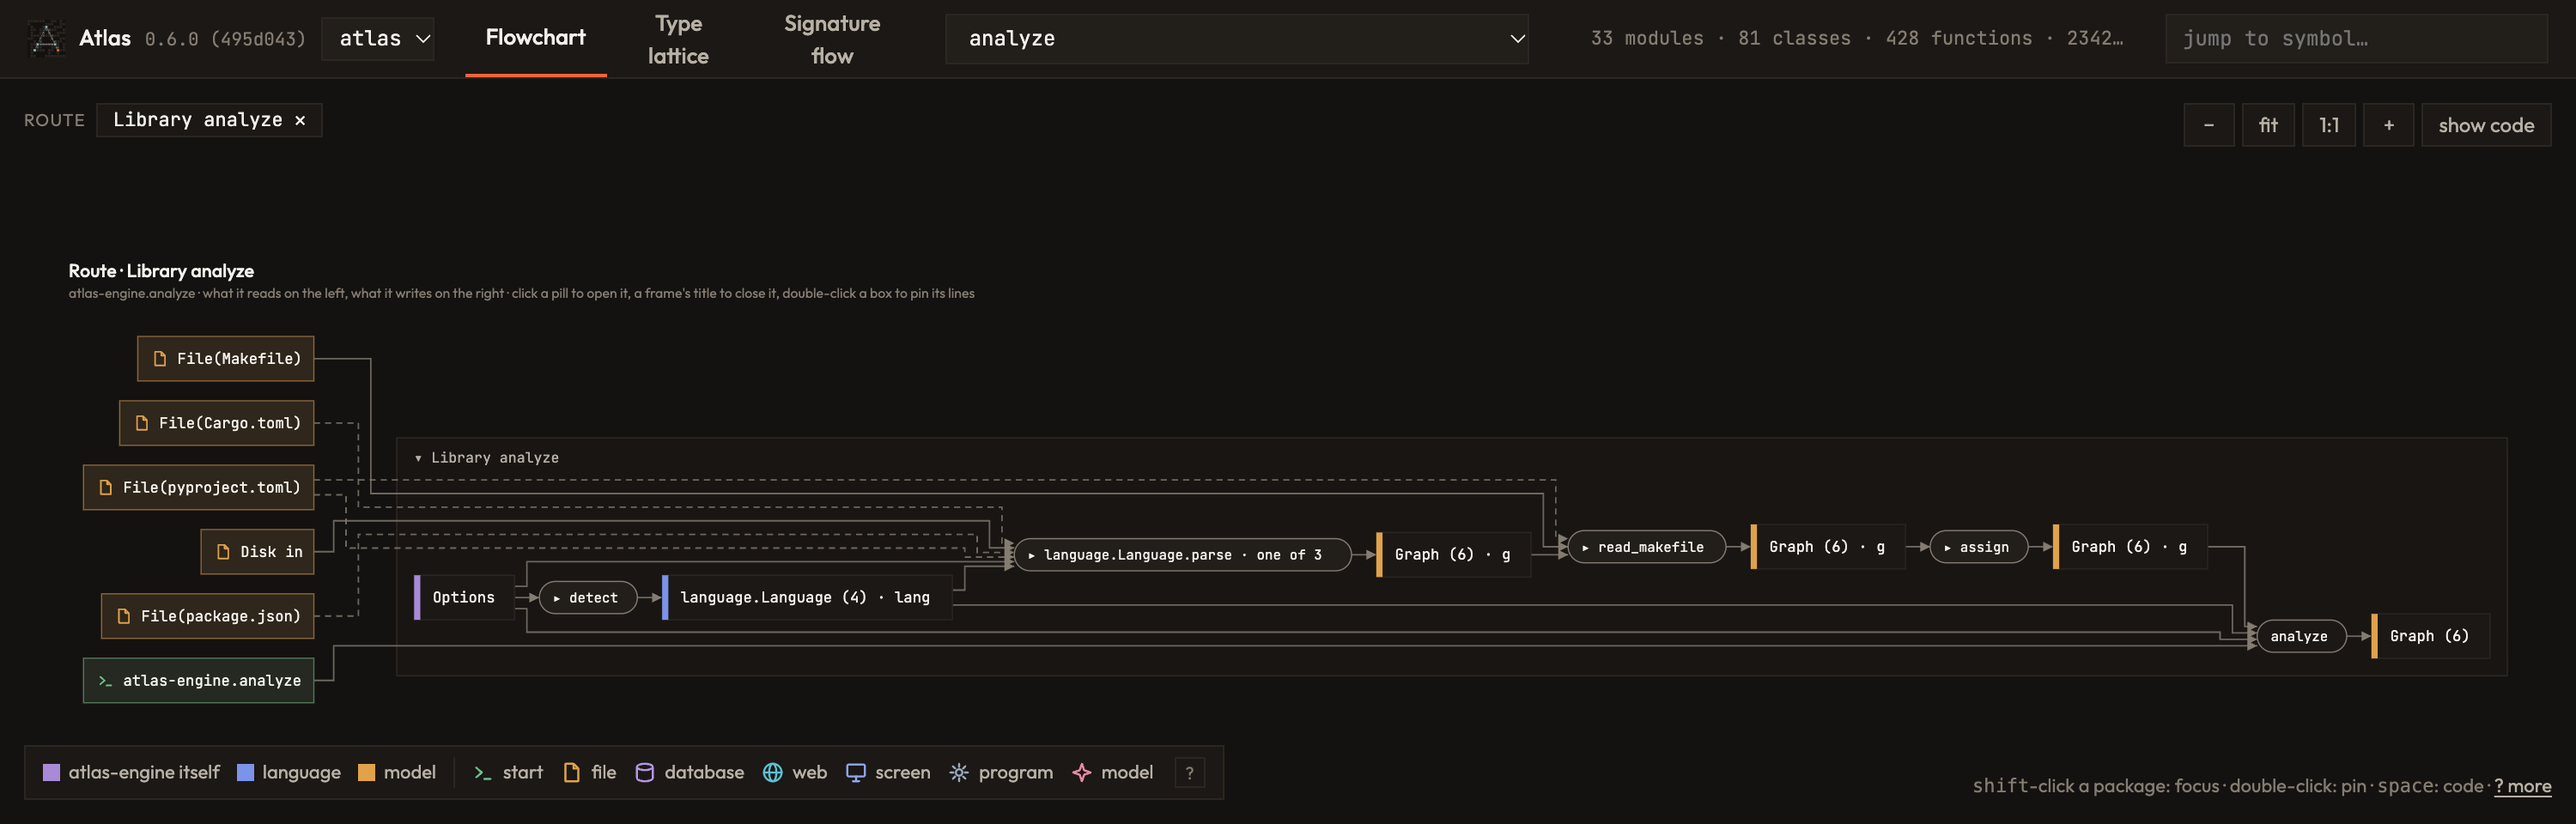
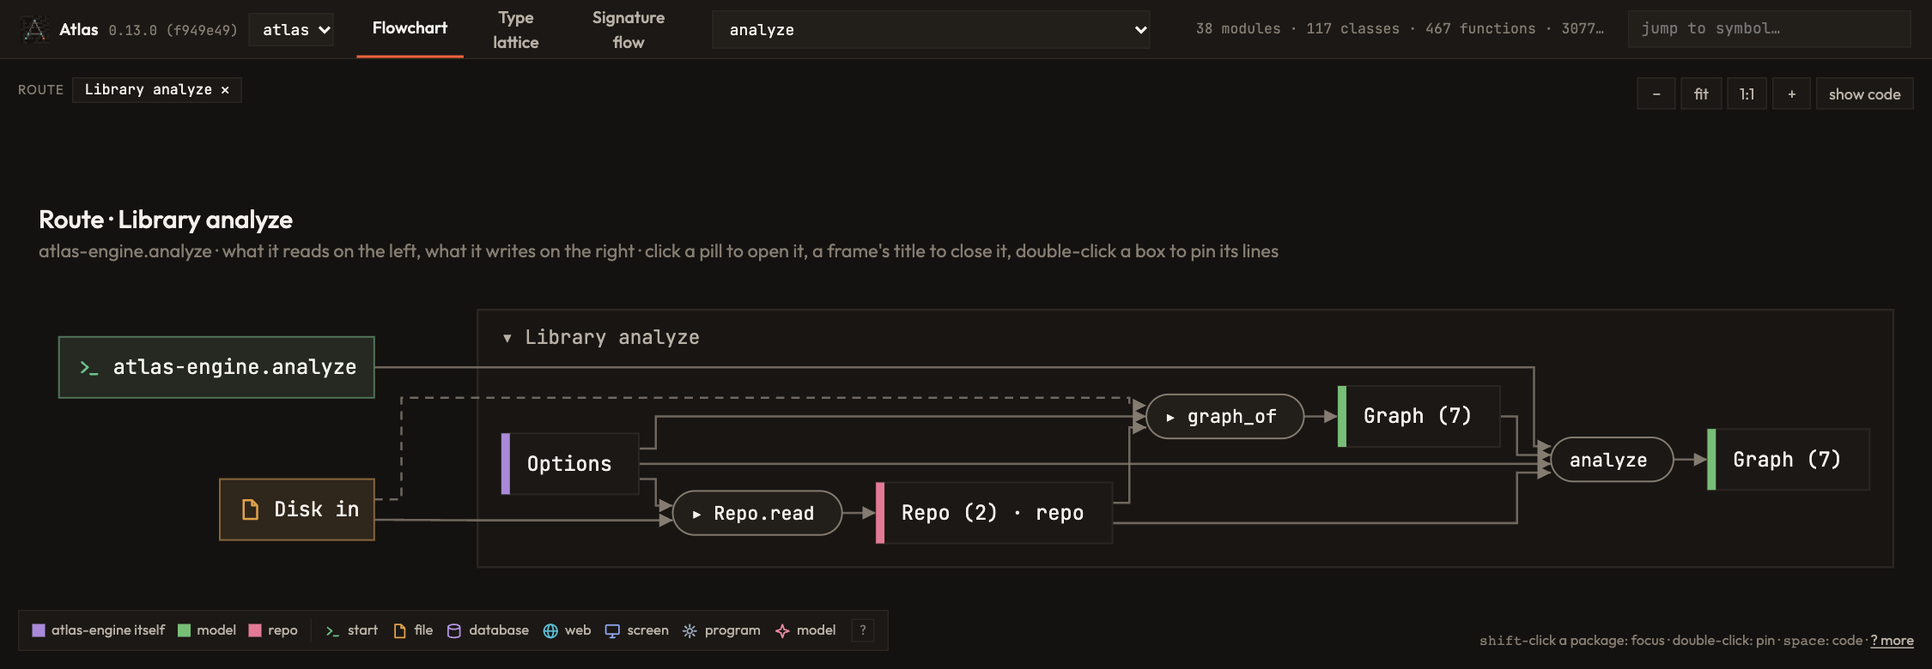
README pictures drawn by 0.13.0: analyze as Repo.read and graph_of
The route reads one place, Disk in, through Repo.read; the dashed line is what
graph_of reaches inside, a file's text read the first time a reader asks.

diff --git a/README.md b/README.md
@@ -55,19 +55,21 @@ reads a repository.
 
 Read it from left to right:
 
-- **On the left** are the places the route reads: `File(Cargo.toml)`, `File(pyproject.toml)`,
-  `Disk in` (the repository's files). The green `>_` box is where the route starts.
+- **On the left** are the places the route reads: `Disk in`, the repository's files. The
+  green `>_` box is where the route starts.
 - **In the middle** are the steps. A rounded pill is a function. A box with a coloured
-  bar is a value of a type in memory: `Options`, `Language`, `Graph`. Arrows run in
+  bar is a value of a type in memory: `Options`, `Repo`, `Graph`. Arrows run in
   call order.
-- **Read it as a sentence:** *detect* the language, *parse* the repository into a `Graph g`
-  with the `Options` of the reading, add the Makefile's targets to `g` (`read_makefile`),
-  *assign* each node its part, and hand back `g`. That is Atlas's whole job, and the code
-  says it in four calls.
-- **`parse · one of 3`** is a choice: the same call goes to the Python, the Rust or the
-  TypeScript reader. `Language (4)` and `Graph (6)` are families: a type and the
-  types that belong to it or that it holds, folded into one box. Click one to open it.
-  A config opens the same way into what it holds (`folders: Folders`).
+- **Read it as a sentence:** *read* the repository into a `Repo`, and make its `graph_of`
+  with the `Options` of the reading. That is Atlas's whole job, and the code says it in two
+  calls.
+- **A solid line is what a step itself takes, a dashed line what a closed pill reaches
+  inside.** `graph_of` takes no file, but the readers inside it ask the `Repo` for a file's
+  text, which is read from disk the first time it is asked for.
+- **`Repo (2)` and `Graph (7)` are families**: a type and the types that belong to it or
+  that it holds, folded into one box. Click one to open it. A config opens the same way
+  into what it holds (`folders: Folders`). Inside `graph_of`, `parse · one of 3` is a
+  choice: the same call goes to the Python, the Rust or the TypeScript reader.
 - **Click any pill** to open it into its own steps, and **show code** to see its source.
 - **A step is a call.** A function the route calls twice is two steps, and a method called
   on a subclass's value is that subclass's (`ComparePlot.plot`). Values are drawn by the
